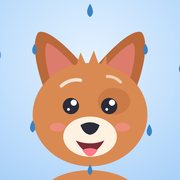
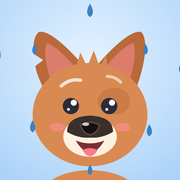
Add files via upload

diff --git a/index.html b/index.html
@@ -467,7 +467,7 @@ if (typeof window !== 'undefined') (() => {
         back = sun(184, 70, 12) + `<path d="M22 60 q6 -6 0 -12 q-6 -6 0 -12" stroke="#ffb000" stroke-width="3" fill="none" stroke-linecap="round" opacity=".7"/>`; break;
       case 'cloud':
         eyes = roundEyes(94); mouth = `<ellipse cx="100" cy="139" rx="4.5" ry="5.5" ${S('var(--ink)')}/>`;
-        back = `<path ${o} ${S('var(--surface)')} d="M2 84 a11 11 0 0 1 3-21 a15 15 0 0 1 28-5 a12 12 0 0 1 8 26 Z"/>` +
+        back = `<path ${o} ${S('var(--lo)')} d="M2 84 a11 11 0 0 1 3-21 a15 15 0 0 1 28-5 a12 12 0 0 1 8 26 Z"/>` +
           `<text x="174" y="88" font-size="38" font-weight="700" font-family="Mitr,sans-serif" ${S('var(--tea)')}>?</text>`; break;
       case 'sniff':
         eyes = `<path class="ink" d="M72 97 Q80 92 88 97"/><path class="ink" d="M112 97 Q120 92 128 97"/>`;
@@ -502,7 +502,7 @@ if (typeof window !== 'undefined') (() => {
       ${back}
       <ellipse ${o} cx="100" cy="190" rx="50" ry="26" ${S(fur)}/>
       <g transform="rotate(${tilt} 100 150)">
-      <path ${o} ${S('var(--ear)')} d="M54 84 C44 60 38 30 46 20 C54 16 74 32 94 56 Z"/>
+      <path ${o} ${S('var(--ear)')} d="M54 84 C47 70 43 60 43 55 L51 49 L42 43 C40 34 41 25 46 20 C54 16 74 32 94 56 Z"/>
       <path ${S('var(--blush)')} opacity=".5" d="M59 72 C54 54 51 38 55 31 C62 33 74 44 84 56 Z"/>
       <path ${o} ${S('var(--ear)')} d="M146 84 C156 60 162 30 154 20 C146 16 126 32 106 56 Z"/>
       <path ${S('var(--blush)')} opacity=".5" d="M141 72 C146 54 149 38 145 31 C138 33 126 44 116 56 Z"/>
@@ -510,9 +510,10 @@ if (typeof window !== 'undefined') (() => {
       <ellipse cx="125" cy="92" rx="17" ry="14" ${S('var(--ear)')} opacity=".45"/>
       ${onHead}
       <ellipse ${o} cx="100" cy="129" rx="28" ry="21" ${S('var(--muzzle)')}/>
+      <path d="M76 124 Q76 108 100 107 Q124 108 124 124 Q112 131 100 130 Q88 131 76 124 Z" style="fill:#3a2f2b"/>
       ${eyes}
-      <path ${S('var(--ink)')} d="M90 117 Q100 111 110 117 Q107 126 100 127 Q93 126 90 117 Z"/>
-      ${mouth}
+      <path style="fill:#141010;stroke:#5a4a44;stroke-width:1.5" d="M90 117 Q100 111 110 117 Q107 126 100 127 Q93 126 90 117 Z"/><ellipse cx="95.5" cy="116" rx="3.6" ry="1.8" style="fill:#fff" opacity=".75"/>
+      <g class="mouth">${mouth}</g>
       <ellipse cx="66" cy="119" rx="8" ry="4.5" ${S('var(--blush)')} opacity=".55"/>
       <ellipse cx="134" cy="119" rx="8" ry="4.5" ${S('var(--blush)')} opacity=".55"/>
       </g>
